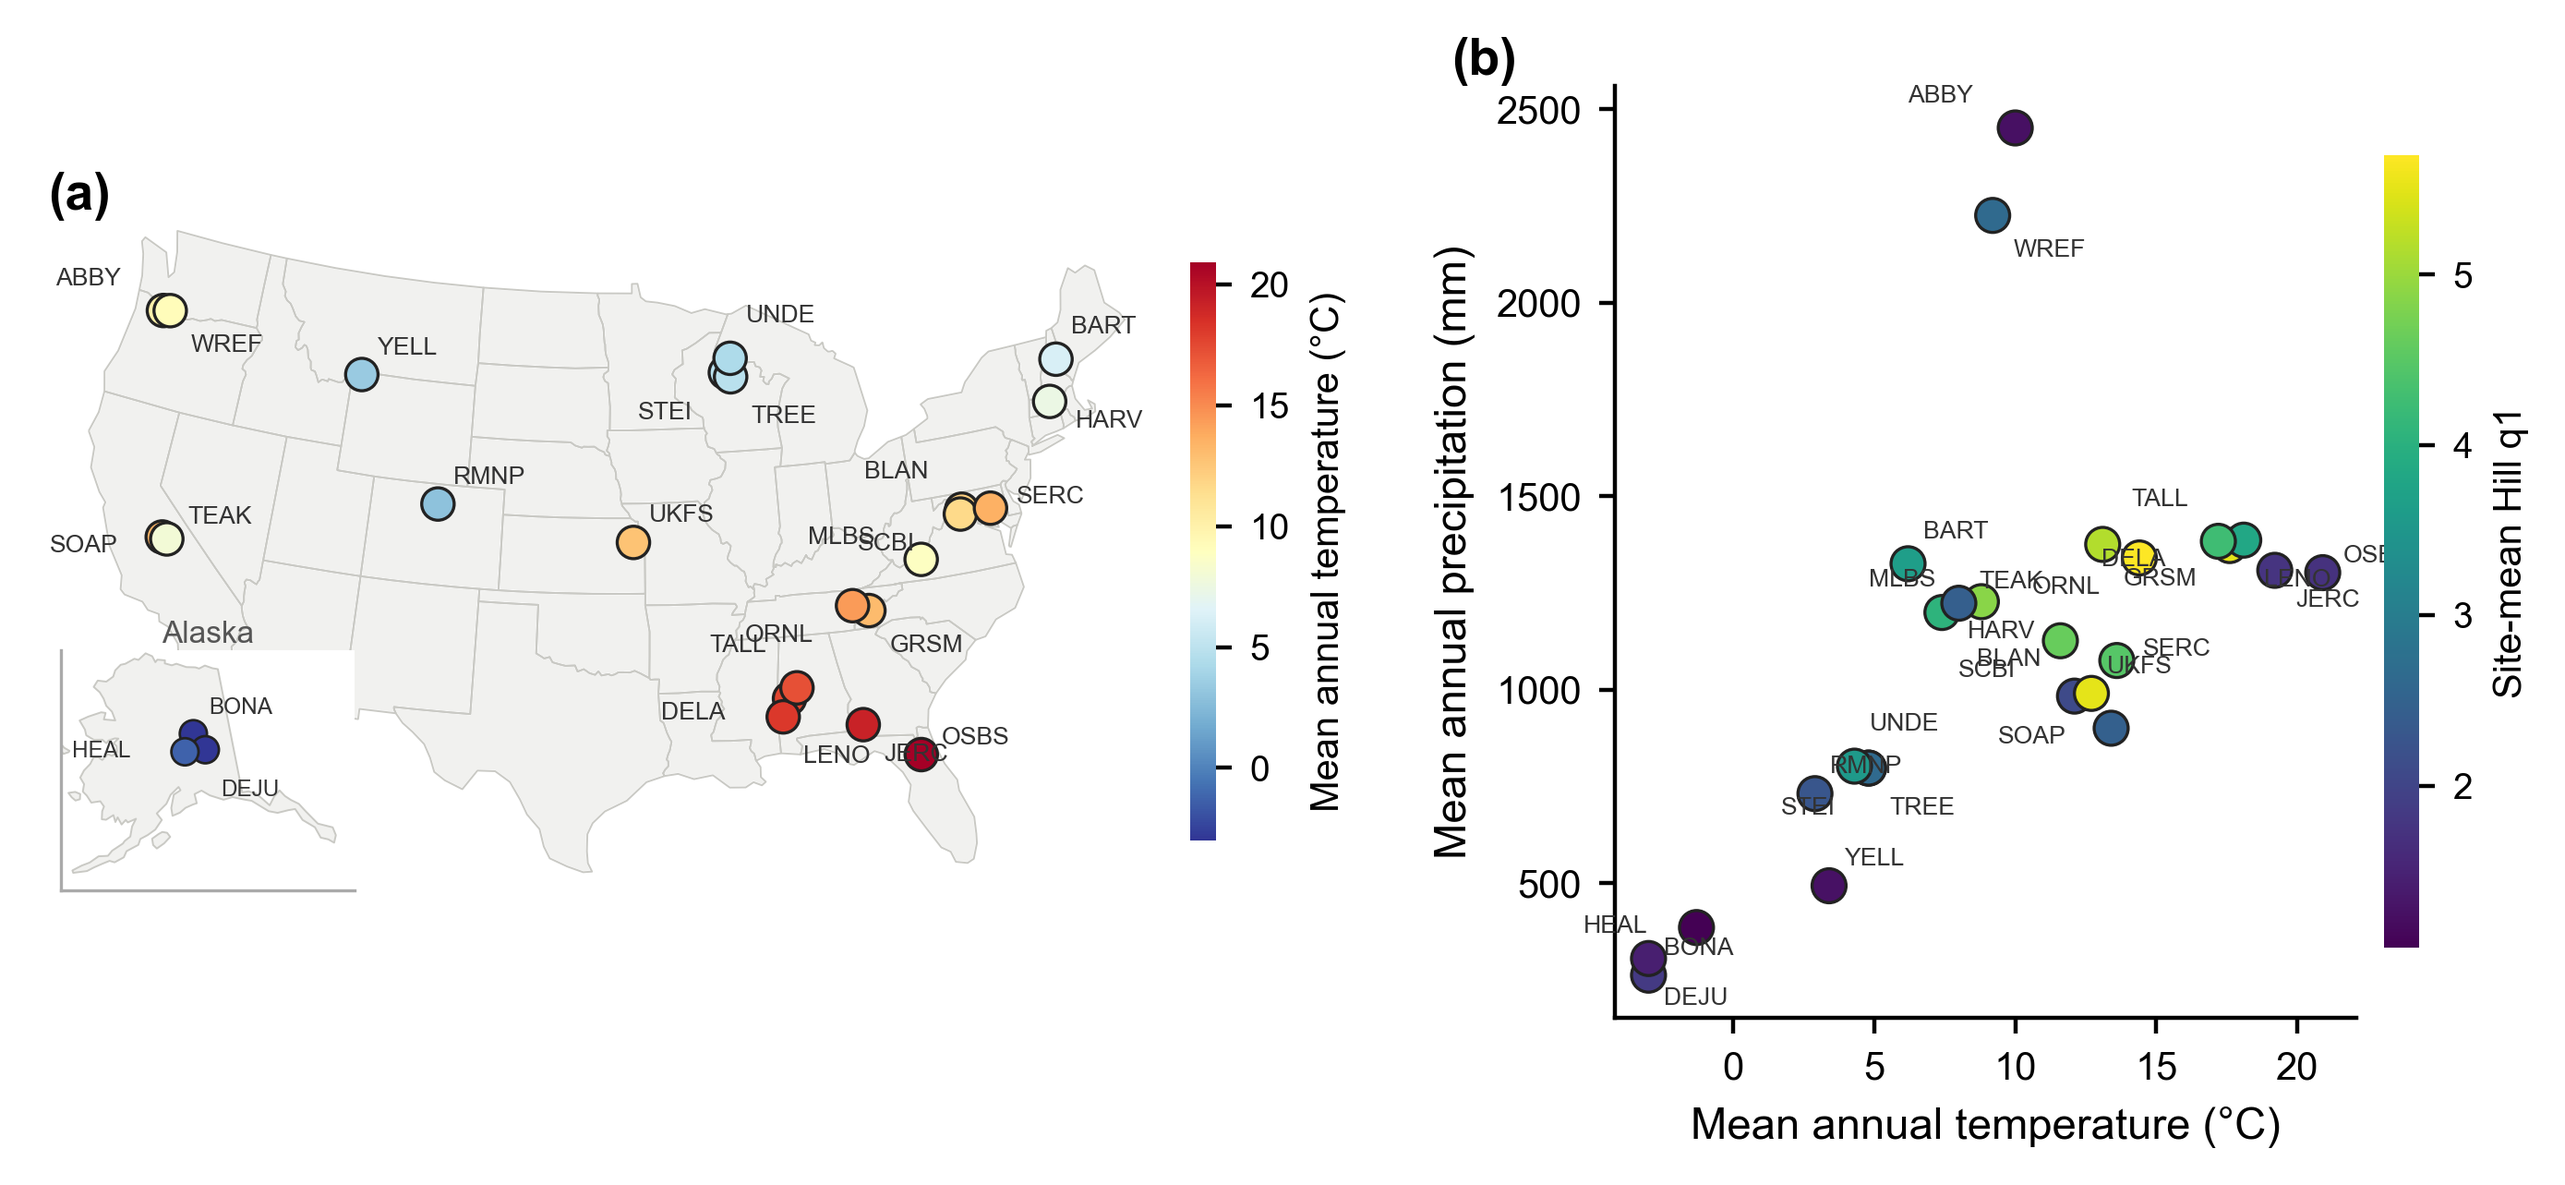
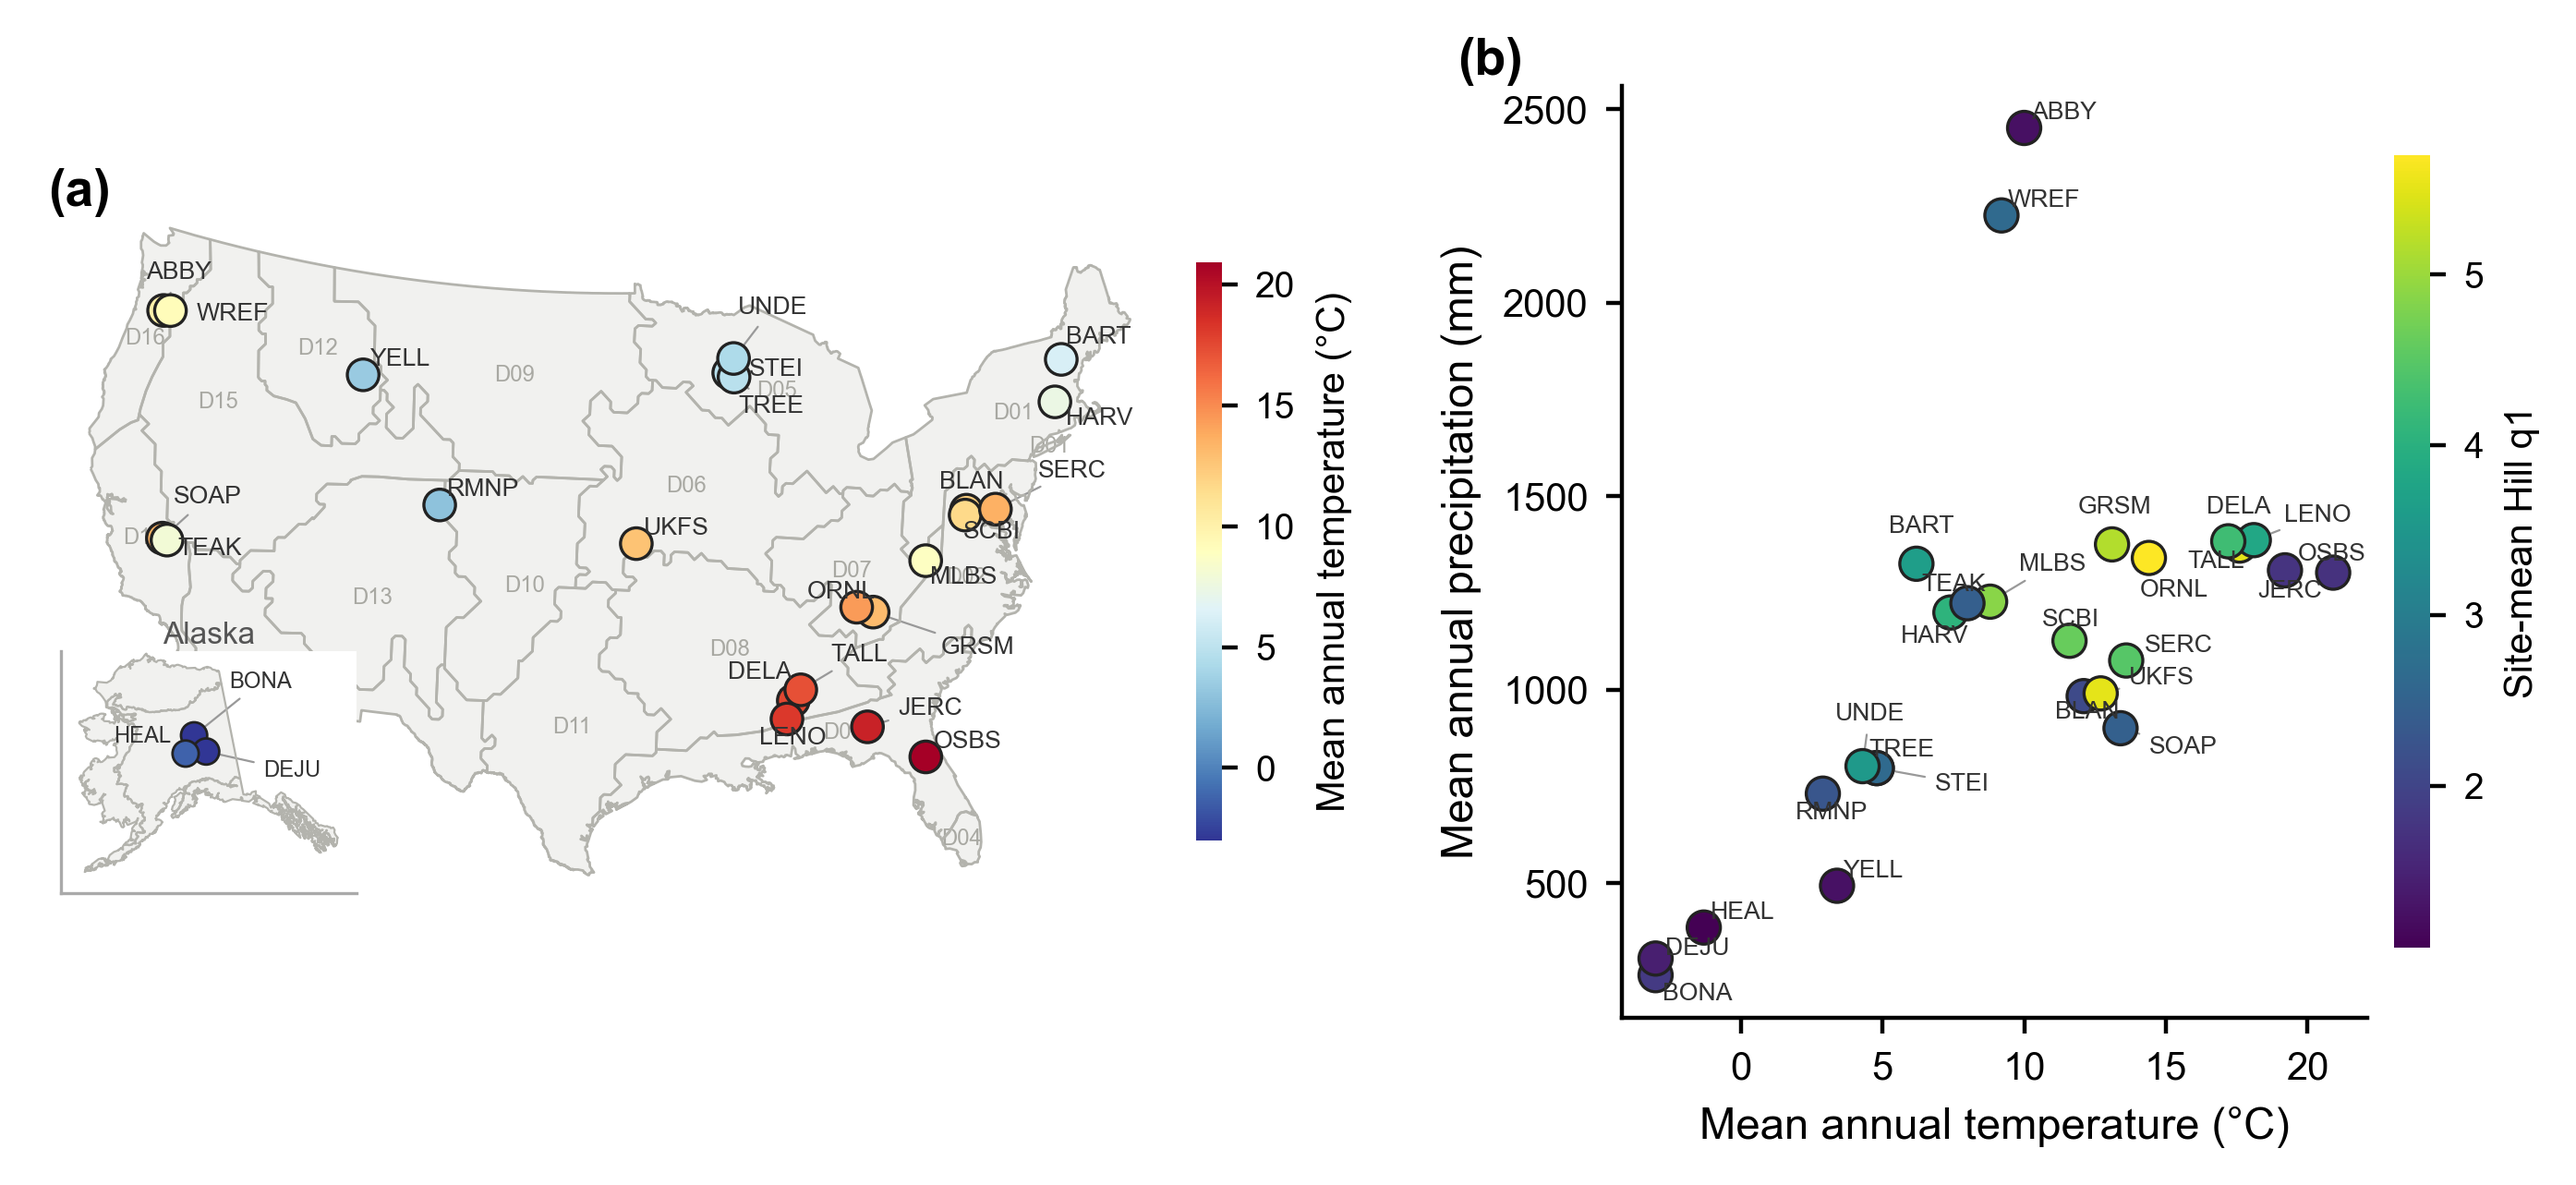
Fig 2: NEON domain boundaries replace state lines; auto label placement
- Basemap switched from Natural Earth state boundaries to the official NEON
  eco-climatic domain polygons (neonscience.org shapefile, cached as
  neon_domains.gpkg), clipped to CONUS (EPSG:5070) and Alaska (EPSG:3338),
  with light D01-D19 domain labels at representative points.
- Site-label overlaps in both the map (incl. Alaska inset) and the climate-space
  scatter resolved with adjustText (repelled labels + thin leader lines),
  replacing the manual offset table.
- Legend updated to describe the domain boundaries.

Claude-Session: https://claude.ai/code/session_014QmjDFaec9SLSW3vnUrtQu

diff --git a/scripts_pipeline/make_manuscript_figures.py b/scripts_pipeline/make_manuscript_figures.py
@@ -90,45 +90,47 @@ import geopandas as gpd
 NE=os.path.join(r"C:\Users\star1\Documents\GitHub\NEON_Resilience","scripts_pipeline","_pipeline_state","ne_states.gpkg")
 if not os.path.exists(NE):
     gpd.read_file("https://naturalearth.s3.amazonaws.com/110m_cultural/ne_110m_admin_1_states_provinces.zip").to_file(NE)
-states_raw=gpd.read_file(NE)
-name_col=[c for c in states_raw.columns if c.lower() in ("name","name_en")][0]
-conus=states_raw[~states_raw[name_col].isin(["Alaska","Hawaii"])].to_crs("EPSG:5070")   # CONUS Albers
-ak=states_raw[states_raw[name_col]=="Alaska"].to_crs("EPSG:3338")                        # Alaska Albers
+from adjustText import adjust_text
+from shapely.geometry import box as _box
+DOM=os.path.join(r"C:\Users\star1\Documents\GitHub\NEON_Resilience","scripts_pipeline","_pipeline_state","neon_domains.gpkg")
+if not os.path.exists(DOM):
+    gpd.read_file("https://www.neonscience.org/sites/default/files/NEONDomains_0.zip").to_file(DOM)
+dom=gpd.read_file(DOM).to_crs(4326)
+conus_dom=gpd.clip(dom,_box(-125.5,24.0,-66.5,49.7)).to_crs("EPSG:5070")   # NEON eco-climatic domains, CONUS
+ak_dom=gpd.clip(dom,_box(-169.5,52.0,-129.5,71.8)).to_crs("EPSG:3338")      # Alaska domains
 ll=pd.read_csv(D+"/plot_lonlat_26.csv").groupby("siteID")[["lon","lat"]].mean().reset_index()
 cl=pd.read_csv(D+"/site_climate_neon.csv"); hq=f.groupby("siteID").Hill_q1.mean().reset_index()
 sm=ll.merge(cl,on="siteID").merge(hq,on="siteID")
 gsm=gpd.GeoDataFrame(sm,geometry=gpd.points_from_xy(sm.lon,sm.lat),crs=4326)
 p48=gsm[gsm.lat<50].to_crs("EPSG:5070"); pak=gsm[gsm.lat>=50].to_crs("EPSG:3338")
-OFF={"UNDE":(3,7),"STEI":(-17,-9),"TREE":(4,-9),"ABBY":(-21,5),"WREF":(4,-8),"SOAP":(-22,-3),"TEAK":(4,3),
-     "BLAN":(-19,6),"SCBI":(-20,-7),"SERC":(5,1),"TALL":(-17,7),"DELA":(-25,-4),"LENO":(4,-9),"ORNL":(-21,-7),
-     "GRSM":(4,-8),"MLBS":(-22,3),"BART":(3,5),"HARV":(5,-5),"JERC":(4,-7),"OSBS":(4,2),"BONA":(3,4),
-     "DEJU":(3,-9),"HEAL":(-22,-1),"UKFS":(3,4),"YELL":(3,4),"RMNP":(3,4)}
-def lab(axh,dd,fs=4.8):
-    for _,r in dd.iterrows():
-        dx,dy=OFF.get(r.siteID,(3,3))
-        axh.annotate(r.siteID,(r.geometry.x,r.geometry.y),fontsize=fs,color="#333333",xytext=(dx,dy),textcoords="offset points")
+def autolab(axh,xs,ys,names,fs=4.8):
+    txts=[axh.text(x_,y_,n_,fontsize=fs,color="#333333") for x_,y_,n_ in zip(xs,ys,names)]
+    adjust_text(txts,x=list(xs),y=list(ys),ax=axh,expand=(1.25,1.6),force_text=(0.4,0.6),
+                arrowprops=dict(arrowstyle="-",color="#999999",lw=0.4))
 vmin,vmax=sm.MAT_C.min(),sm.MAT_C.max()
 fig,ax=plt.subplots(1,2,figsize=(W,3.25),gridspec_kw={"width_ratios":[1.5,1]})
-conus.plot(ax=ax[0],color="#f1f1ef",edgecolor="#ffffff",lw=0.5)
-conus.boundary.plot(ax=ax[0],color="#c9c9c4",lw=0.35)
-sc=ax[0].scatter(p48.geometry.x,p48.geometry.y,c=p48.MAT_C,cmap="RdYlBu_r",vmin=vmin,vmax=vmax,s=40,edgecolor="#222222",linewidth=0.6,zorder=3)
-lab(ax[0],p48)
+conus_dom.plot(ax=ax[0],color="#f1f1ef",edgecolor="none")
+conus_dom.boundary.plot(ax=ax[0],color="#b3b3ad",lw=0.5)
+for _,r in conus_dom.iterrows():
+    pt=r.geometry.representative_point()
+    ax[0].text(pt.x,pt.y,f"D{int(r.DomainID):02d}",fontsize=4.3,color="#a8a8a2",ha="center",va="center",zorder=1)
+sc=ax[0].scatter(p48.geometry.x,p48.geometry.y,c=p48.MAT_C,cmap="RdYlBu_r",vmin=vmin,vmax=vmax,s=38,edgecolor="#222222",linewidth=0.6,zorder=3)
+autolab(ax[0],p48.geometry.x.values,p48.geometry.y.values,p48.siteID.values)
 ax[0].set_axis_off(); panel(ax[0],"(a)",0.01,0.97)
-# Alaska inset (its own Albers) at lower-left of panel a
+# Alaska inset (Alaska Albers, NEON domains D18/D19)
 axi=ax[0].inset_axes([0.00,0.02,0.30,0.34])
-ak.plot(ax=axi,color="#f1f1ef",edgecolor="#c9c9c4",lw=0.35)
-axi.scatter(pak.geometry.x,pak.geometry.y,c=pak.MAT_C,cmap="RdYlBu_r",vmin=vmin,vmax=vmax,s=28,edgecolor="#222222",linewidth=0.5,zorder=3)
-lab(axi,pak,fs=4.4)
+ak_dom.plot(ax=axi,color="#f1f1ef",edgecolor="none")
+ak_dom.boundary.plot(ax=axi,color="#b3b3ad",lw=0.4)
+axi.scatter(pak.geometry.x,pak.geometry.y,c=pak.MAT_C,cmap="RdYlBu_r",vmin=vmin,vmax=vmax,s=26,edgecolor="#222222",linewidth=0.5,zorder=3)
+autolab(axi,pak.geometry.x.values,pak.geometry.y.values,pak.siteID.values,fs=4.3)
 axi.set_xlim(-0.8e6,1.65e6); axi.set_ylim(0.4e6,2.4e6)
 axi.set_xticks([]); axi.set_yticks([])
 for sp in axi.spines.values(): sp.set_edgecolor("#aaaaaa"); sp.set_linewidth(0.6)
 axi.set_title("Alaska",fontsize=6,color="#555555",pad=1.5)
 cb=fig.colorbar(sc,ax=ax[0],shrink=0.62,pad=0.01,aspect=22); cb.set_label("Mean annual temperature (°C)",fontsize=7.5); cb.ax.tick_params(labelsize=7)
 cb.outline.set_visible(False)
-s2=ax[1].scatter(sm.MAT_C,sm.MAP_mm,c=sm.Hill_q1,cmap="viridis",s=44,edgecolor="#222222",linewidth=0.6)
-for _,r in sm.iterrows():
-    dx,dy=OFF.get(r.siteID,(3,3))
-    ax[1].annotate(r.siteID,(r.MAT_C,r.MAP_mm),fontsize=4.8,color="#333333",xytext=(dx,dy),textcoords="offset points")
+s2=ax[1].scatter(sm.MAT_C,sm.MAP_mm,c=sm.Hill_q1,cmap="viridis",s=42,edgecolor="#222222",linewidth=0.6,zorder=3)
+autolab(ax[1],sm.MAT_C.values,sm.MAP_mm.values,sm.siteID.values)
 ax[1].set_xlabel("Mean annual temperature (°C)"); ax[1].set_ylabel("Mean annual precipitation (mm)")
 panel(ax[1],"(b)",-0.22,1.00)
 cb2=fig.colorbar(s2,ax=ax[1],shrink=0.85,pad=0.03,aspect=22); cb2.set_label("Site-mean Hill q1",fontsize=7.5); cb2.ax.tick_params(labelsize=7)

diff --git a/NEON_v2/papers/UNIFIED/MANUSCRIPT_v2_full_26site.md b/NEON_v2/papers/UNIFIED/MANUSCRIPT_v2_full_26site.md
@@ -161,7 +161,7 @@ We evaluated how three remote-sensing dimensions relate to the components of tre
 
 **Figure 1.** Conceptual framework. Three remote-sensing dimensions (static canopy state, structural dynamics, ecosystem productivity) are related to the components of tree diversity (alpha, turnover, nestedness, and the site-level species–energy relationship). Arrow weight indicates the strength of the association found in this study; arrow labels give the analytical framing through which each signal emerges (predictor levels, between-plot dissimilarity, temporal trends, site-scale aggregation). File: `figures/Figure_1.png`.
 
-**Figure 2.** Study area. (a) The 26 forested NEON sites across 12 eco-climatic domains; the conterminous United States is shown in a CONUS Albers equal-area projection with the three interior-Alaska sites in an Alaska Albers inset; point colour gives mean annual temperature. (b) The same sites in climate space (mean annual temperature vs precipitation); point colour gives site-mean tree diversity (Hill q1). File: `figures/Figure_2.png`.
+**Figure 2.** Study area. (a) The 26 forested NEON sites; grey lines give the NEON eco-climatic domain boundaries (labelled D01–D19), shown in a CONUS Albers equal-area projection with the three interior-Alaska sites in an Alaska Albers inset; point colour gives mean annual temperature. (b) The same sites in climate space (mean annual temperature vs precipitation); point colour gives site-mean tree diversity (Hill q1). File: `figures/Figure_2.png`.
 
 **Figure 3.** Plot-level framework (n = 644 alpha / 579 beta plots, 26 sites, 12 domains). (a) Sequential R² beyond the NEON-domain baseline for canopy state and structural dynamics; stars give restricted wild cluster bootstrap p-values for the dynamics increment. (b) Unique (semi-partial) R² of the structural, spectral, and dynamics blocks plus their shared fraction; stars give wild cluster bootstrap block tests. (c–f) Standardized coefficients (posterior mean and 95% HDI) from the Bayesian multilevel model for Hill q1 (c), Hill q2 (d), LCBD turnover (e), and LCBD nestedness (f); filled symbols indicate coefficients whose 95% HDI excludes zero. File: `figures/Figure_3.png`.
 
